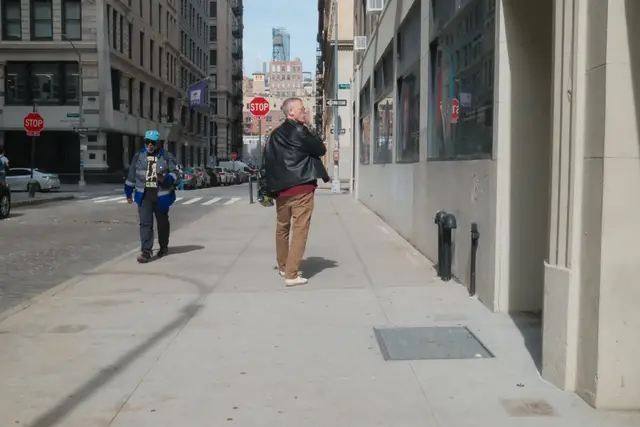
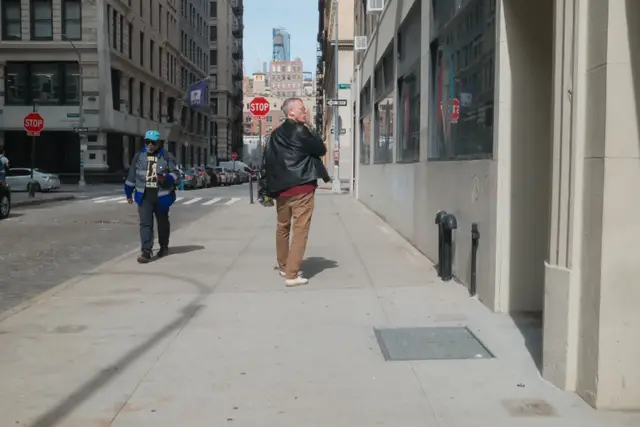
Photo pipeline: compress only, crop upstream
Cropping moves to the editing step before a photo lands in photos/;
the script just resizes and compresses. The dscf1421 crop is baked
into its local original at full resolution with EXIF intact.

Claude-Session: https://claude.ai/code/session_018JJdYdwt8PK3ZvLEciL1vE

diff --git a/lib/photos/notes.ts b/lib/photos/notes.ts
@@ -5,8 +5,6 @@ import type { PhotoExif } from './index';
 // Everything under `exif` overrides what the camera recorded.
 export type PhotoNote = {
   caption?: string;
-  // Fractions of the original frame, applied by `npm run photos` before resizing.
-  crop?: { x: number; y: number; width: number; height: number };
   place?: string;
   exif?: Partial<PhotoExif>;
   hidden?: boolean;
@@ -18,11 +16,7 @@ export const notes: Record<string, PhotoNote> = {
   dscf0454: { caption: 'afternoon sun across the dial' },
   dscf0702: { caption: 'out through the revolving door' },
   'iso12800-3': { caption: 'lights down at Ashe', place: 'Arthur Ashe, Queens' },
-  dscf1421: {
-    caption: 'two ways down the block',
-    place: 'Greenwich Village',
-    crop: { x: 0.1, y: 0.1, width: 0.8, height: 0.8 },
-  },
+  dscf1421: { caption: 'two ways down the block', place: 'Greenwich Village' },
   dscf1428: { caption: 'crossing, under the pines' },
   dscf0714: { caption: 'umbrellas at the plaza, golden hour', place: 'Rockefeller Center' },
 };
